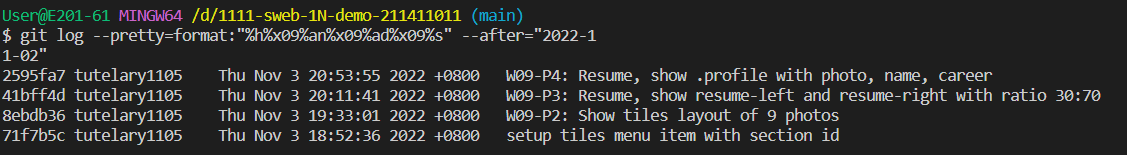
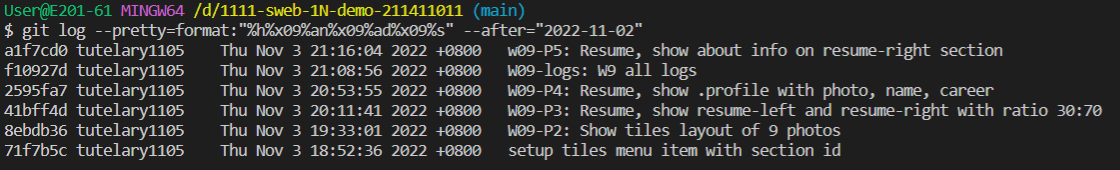
W09-logs: W9 all logs

diff --git a/demo/md/w09_11/w09_11.md b/demo/md/w09_11/w09_11.md
@@ -20,14 +20,13 @@
 
 ### w09-P5: Resume, show about info on resume-right section
 
-![](w09-p5.png)
+![](w09_p5.png)
 
 ### W09-logs: W9 all logs
 
 ![](w09_logs.png)
 
-$ git log --pretty=format:"%h%x09%an%x09%ad%x09%s" --after="2022-1
-1-02"
+$ git log --pretty=format:"%h%x09%an%x09%ad%x09%s" --after="2022-11-02"
 2595fa7 tutelary1105 Thu Nov 3 20:53:55 2022 +0800 W09-P4: Resume, show .profile with photo, name, career
 41bff4d tutelary1105 Thu Nov 3 20:11:41 2022 +0800 W09-P3: Resume, show resume-left and resume-right with ratio 30:70
 8ebdb36 tutelary1105 Thu Nov 3 19:33:01 2022 +0800 W09-P2: Show tiles layout of 9 photos
